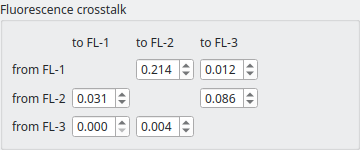
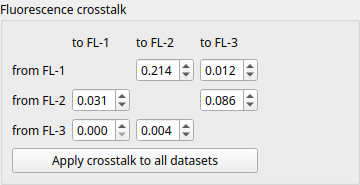
enh: apply fluorescence crosstalk coefficients to all datasets (#248)
* enh: apply fluorescence crosstalk coefficients to all datasets (#198)

New button "Apply crosstalk to all datasets" in the fluorescence
crosstalk section of the Dataset tab. Only the crosstalk values are
applied to the other datasets.

* docs: update screenshot of the crosstalk matrix (#198)

---------

Changed region(s): [[0.0306, 0.1867, 0.7333, 0.9333], [0.0, 0.0267, 0.3667, 0.1067], [0.1833, 0.1867, 0.3056, 0.32]]

diff --git a/tests/test_gui_ana_slot.py b/tests/test_gui_ana_slot.py
@@ -1,0 +1,46 @@
+"""Test the Dataset tab of the Analysis View"""
+import pathlib
+
+import pytest
+
+from dcscope import session
+
+import conftest  # noqa: F401
+
+
+datapath = pathlib.Path(__file__).parent / "data"
+
+
+@pytest.fixture(autouse=True)
+def run_around_tests():
+    session.clear_session()
+    yield
+    session.clear_session()
+
+
+def test_crosstalk_apply_to_all_issue_198(qtbot, mw):
+    """Apply the crosstalk values to all datasets (#198)"""
+    qtbot.addWidget(mw)
+    path = datapath / "calibration_beads_47.rtdc"
+    mw.add_dataslot(paths=[path, path, path])
+    mw.widget_ana_view.ui.tabWidget.setCurrentWidget(
+        mw.widget_ana_view.ui.tab_slot)
+    wsl = mw.widget_ana_view.ui.widget_slot
+
+    wsl.ui.doubleSpinBox_ct12.setValue(0.1)
+    wsl.ui.doubleSpinBox_ct31.setValue(0.25)
+    # this change is not applied with "Apply crosstalk to all datasets"
+    wsl.ui.lineEdit_name.setText("new name")
+    # (the Analysis View is not shown, so we cannot use qtbot.mouseClick)
+    wsl.ui.pushButton_ct_apply_all.click()
+
+    for ii, slot in enumerate(mw.pipeline.slots):
+        state = slot.__getstate__()
+        assert state["crosstalk"]["crosstalk fl12"] == 0.1
+        assert state["crosstalk"]["crosstalk fl31"] == 0.25
+        assert state["crosstalk"]["crosstalk fl13"] == 0
+        assert state["name"] != "new name"
+        # the values are used for computing the corrected fluorescence
+        ds = mw.pipeline.get_dataset(ii)
+        assert ds.config["calculation"]["crosstalk fl12"] == 0.1
+        assert ds.config["calculation"]["crosstalk fl31"] == 0.25

diff --git a/dcscope/gui/analysis/ana_slot_ui.py b/dcscope/gui/analysis/ana_slot_ui.py
@@ -223,6 +223,9 @@ class Ui_Form(object):
         self.doubleSpinBox_ct23.setSingleStep(0.1)
         self.doubleSpinBox_ct23.setObjectName("doubleSpinBox_ct23")
         self.gridLayout_3.addWidget(self.doubleSpinBox_ct23, 2, 3, 1, 1)
+        self.pushButton_ct_apply_all = QtWidgets.QPushButton(parent=self.groupBox_fl_cross)
+        self.pushButton_ct_apply_all.setObjectName("pushButton_ct_apply_all")
+        self.gridLayout_3.addWidget(self.pushButton_ct_apply_all, 4, 0, 1, 4)
         self.verticalLayout_5.addWidget(self.groupBox_fl_cross)
         self.groupBox_fl_labels = QtWidgets.QGroupBox(parent=Form)
         self.groupBox_fl_labels.setObjectName("groupBox_fl_labels")
@@ -331,6 +334,8 @@ class Ui_Form(object):
         self.label_to_fl3.setText(_translate("Form", "to FL-3"))
         self.label_from_fl1.setText(_translate("Form", "from FL-1"))
         self.label_from_fl3.setText(_translate("Form", "from FL-3"))
+        self.pushButton_ct_apply_all.setToolTip(_translate("Form", "Set these crosstalk values for all datasets in the session (other changes in this tab are not applied)"))
+        self.pushButton_ct_apply_all.setText(_translate("Form", "Apply crosstalk to all datasets"))
         self.groupBox_fl_labels.setToolTip(_translate("Form", "Choose user-definde labels that will be used for axes labels."))
         self.groupBox_fl_labels.setTitle(_translate("Form", "Fluorescence labels"))
         self.label_fl2.setText(_translate("Form", "FL-2"))

diff --git a/dcscope/gui/analysis/ana_slot.py b/dcscope/gui/analysis/ana_slot.py
@@ -33,6 +33,8 @@ class SlotPanel(QtWidgets.QWidget):
         self.ui.toolButton_duplicate.clicked.connect(self.on_duplicate_slot)
         self.ui.toolButton_remove.clicked.connect(self.on_remove_slot)
         self.ui.pushButton_apply.clicked.connect(self.write_slot)
+        self.ui.pushButton_ct_apply_all.clicked.connect(
+            self.on_crosstalk_apply_all)
         self.ui.pushButton_reset.clicked.connect(self.update_content)
         self.ui.comboBox_slots.currentIndexChanged.connect(self.update_content)
         self.ui.comboBox_medium.currentIndexChanged.connect(self.on_ui_changed)
@@ -496,6 +498,21 @@ class SlotPanel(QtWidgets.QWidget):
             self.on_ui_changed()
         else:
             self.setEnabled(False)
+
+    @QtCore.pyqtSlot()
+    def on_crosstalk_apply_all(self):
+        """Set the crosstalk values shown for all datasets (#198)
+
+        Only the crosstalk values are applied; other (not yet applied)
+        changes of the current dataset are not.
+        """
+        crosstalk = self.read_pipeline_state()["crosstalk"]
+        with self.pipeline.lock:
+            for slot in self.pipeline.slots:
+                state = slot.__getstate__()
+                state["crosstalk"].update(crosstalk)
+                slot.__setstate__(state)
+        self.pp_mod_send.emit({"pipeline": {"feature_changed": "crosstalk"}})
 
     def write_slot(self):
         """Update the dcscope.pipeline.Dataslot instance"""

diff --git a/docs/scrots/make_scrots_qg_fl_crosstalk.py b/docs/scrots/make_scrots_qg_fl_crosstalk.py
@@ -64,7 +64,7 @@ mw.add_dataslot(paths=[tmp])
 mw.on_modify_slot(mw.pipeline.slot_ids[0])
 mw.widget_ana_view.repaint()
 wsl = mw.widget_ana_view.ui.widget_slot
-wsl.ui.groupBox_fl_cross.setFixedSize(360, 150)
+wsl.ui.groupBox_fl_cross.setFixedSize(360, 185)
 
 wsl.ui.doubleSpinBox_ct12.setValue(0.214)
 wsl.ui.doubleSpinBox_ct13.setValue(0.012)

diff --git a/docs/sec_qg_fl_crosstalk.rst b/docs/sec_qg_fl_crosstalk.rst
@@ -53,7 +53,8 @@ one channel *to* the other channels. For instance, in
 additionally detected in FL-2. Only the coefficients between the
 fluorescence channels of the dataset are shown. Click *Apply* to apply
 the coefficients to the dataset. The coefficients are set for each dataset
-individually.
+individually. To use the same coefficients for all datasets of the session
+(e.g. measured with the same setup), click *Apply crosstalk to all datasets*.
 
 As soon as any of the coefficients is set (not zero), the crosstalk-corrected
 features *FL-1 maximum, crosstalk-corrected* (fl1_max_ctc),
